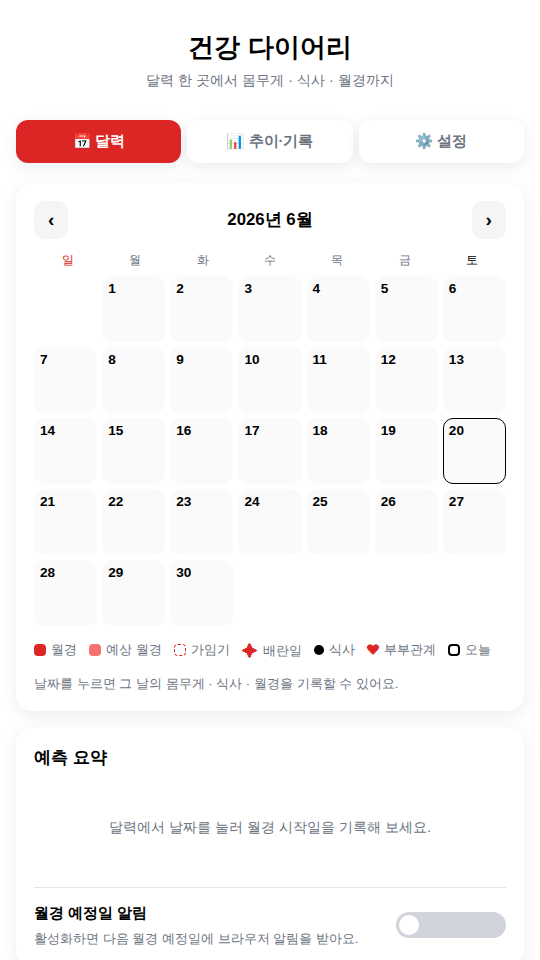
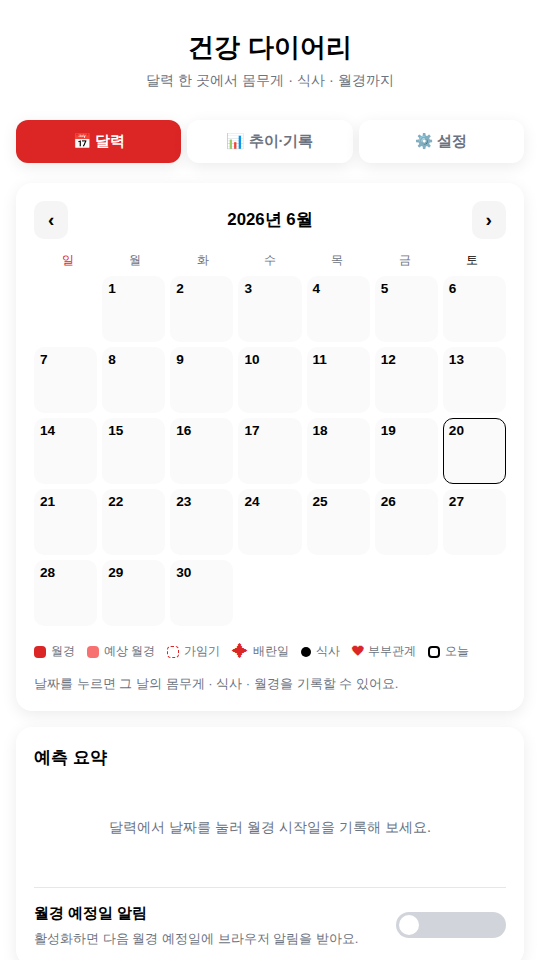
자잘한 마무리: 범례 정리·카드 제목 통일·식사 라벨·좁은 화면 탭
- 범례: 항목이 중간에 줄바꿈되지 않도록 nowrap, 간격 정리
- 카드 제목 이모지 일관화: 🔒데이터 보호·💾백업 → 텍스트만(다른 카드와 통일)
- 식사 체크박스에 aria-label 추가(접근성)
- 좁은 화면(≤380px)에서 3개 탭이 줄바꿈 없이 들어가도록 폰트·여백 축소

Claude-Session: https://claude.ai/code/session_011w39rNkE5H8HzD7QC93gXV

Changed region(s): [[0.3259, 0.6562, 0.9185, 0.6875], [0.0593, 0.6562, 0.2963, 0.6875]]

diff --git a/index.html b/index.html
@@ -110,14 +110,14 @@
       </div>
 
       <div class="card" id="storage-card">
-        <h2>🔒 데이터 보호</h2>
+        <h2>데이터 보호</h2>
         <div class="storage-status" id="storage-status">확인 중...</div>
         <button class="btn primary" id="persist-btn" style="margin-top:12px;width:100%">데이터 영구 보존 켜기</button>
         <p class="hint">켜두면 브라우저가 저장 공간을 자동으로 비울 때도 이 앱의 기록은 보호됩니다.</p>
       </div>
 
       <div class="card" id="backup-card">
-        <h2>💾 백업 · 복원</h2>
+        <h2>백업 · 복원</h2>
         <p class="hint">기록은 이 브라우저에만 저장됩니다. 기기 변경이나 브라우저 정리에 대비해 가끔 백업 파일을 저장해 두세요.</p>
         <div class="backup-summary" id="backup-summary"></div>
         <div class="row">
@@ -154,21 +154,21 @@
             <div class="meal-box" data-dmeal="breakfast">
               <div class="meal-head">
                 <span class="meal-emoji">🌅</span><span class="meal-name">아침</span>
-                <label class="switch"><input type="checkbox" data-dcheck="breakfast" /><span class="slider"></span></label>
+                <label class="switch"><input type="checkbox" data-dcheck="breakfast" aria-label="아침 먹음" /><span class="slider"></span></label>
               </div>
               <input type="text" data-dtext="breakfast" placeholder="무엇을 먹었나요?" />
             </div>
             <div class="meal-box" data-dmeal="lunch">
               <div class="meal-head">
                 <span class="meal-emoji">☀️</span><span class="meal-name">점심</span>
-                <label class="switch"><input type="checkbox" data-dcheck="lunch" /><span class="slider"></span></label>
+                <label class="switch"><input type="checkbox" data-dcheck="lunch" aria-label="점심 먹음" /><span class="slider"></span></label>
               </div>
               <input type="text" data-dtext="lunch" placeholder="무엇을 먹었나요?" />
             </div>
             <div class="meal-box" data-dmeal="dinner">
               <div class="meal-head">
                 <span class="meal-emoji">🌙</span><span class="meal-name">저녁</span>
-                <label class="switch"><input type="checkbox" data-dcheck="dinner" /><span class="slider"></span></label>
+                <label class="switch"><input type="checkbox" data-dcheck="dinner" aria-label="저녁 먹음" /><span class="slider"></span></label>
               </div>
               <input type="text" data-dtext="dinner" placeholder="무엇을 먹었나요?" />
             </div>

diff --git a/styles.css b/styles.css
@@ -64,8 +64,14 @@ main { max-width: 720px; margin: 0 auto; padding: 12px 16px 40px; }
   font-size: 0.92rem;
   font-weight: 600;
   cursor: pointer;
+  white-space: nowrap;
   box-shadow: var(--shadow);
   transition: all 0.15s ease;
+}
+/* 좁은 화면에서 3개 탭이 줄바꿈 없이 들어가도록 축소 */
+@media (max-width: 380px) {
+  .tabs { gap: 4px; padding: 8px 10px; }
+  .tab { font-size: 0.82rem; padding: 11px 3px; }
 }
 .tab.active { background: var(--accent); color: #fff; }
 
@@ -260,7 +266,8 @@ input:focus-visible {
   .modal { border-radius: 20px; }
 }
 
-.legend { display: flex; flex-wrap: wrap; gap: 12px; margin-top: 14px; font-size: 0.8rem; color: var(--muted); }
+.legend { display: flex; flex-wrap: wrap; gap: 6px 12px; margin-top: 14px; font-size: 0.78rem; color: var(--muted); }
+.legend span { display: inline-flex; align-items: center; white-space: nowrap; }
 .legend i.dot { display: inline-block; width: 12px; height: 12px; border-radius: 4px; margin-right: 5px; vertical-align: middle; }
 .dot.period { background: var(--period); }
 .dot.predicted { background: var(--predicted); }

diff --git a/sw.js b/sw.js
@@ -1,4 +1,4 @@
-const CACHE_NAME = 'health-diary-v14';
+const CACHE_NAME = 'health-diary-v15';
 const ASSETS = [
   './',
   './index.html',